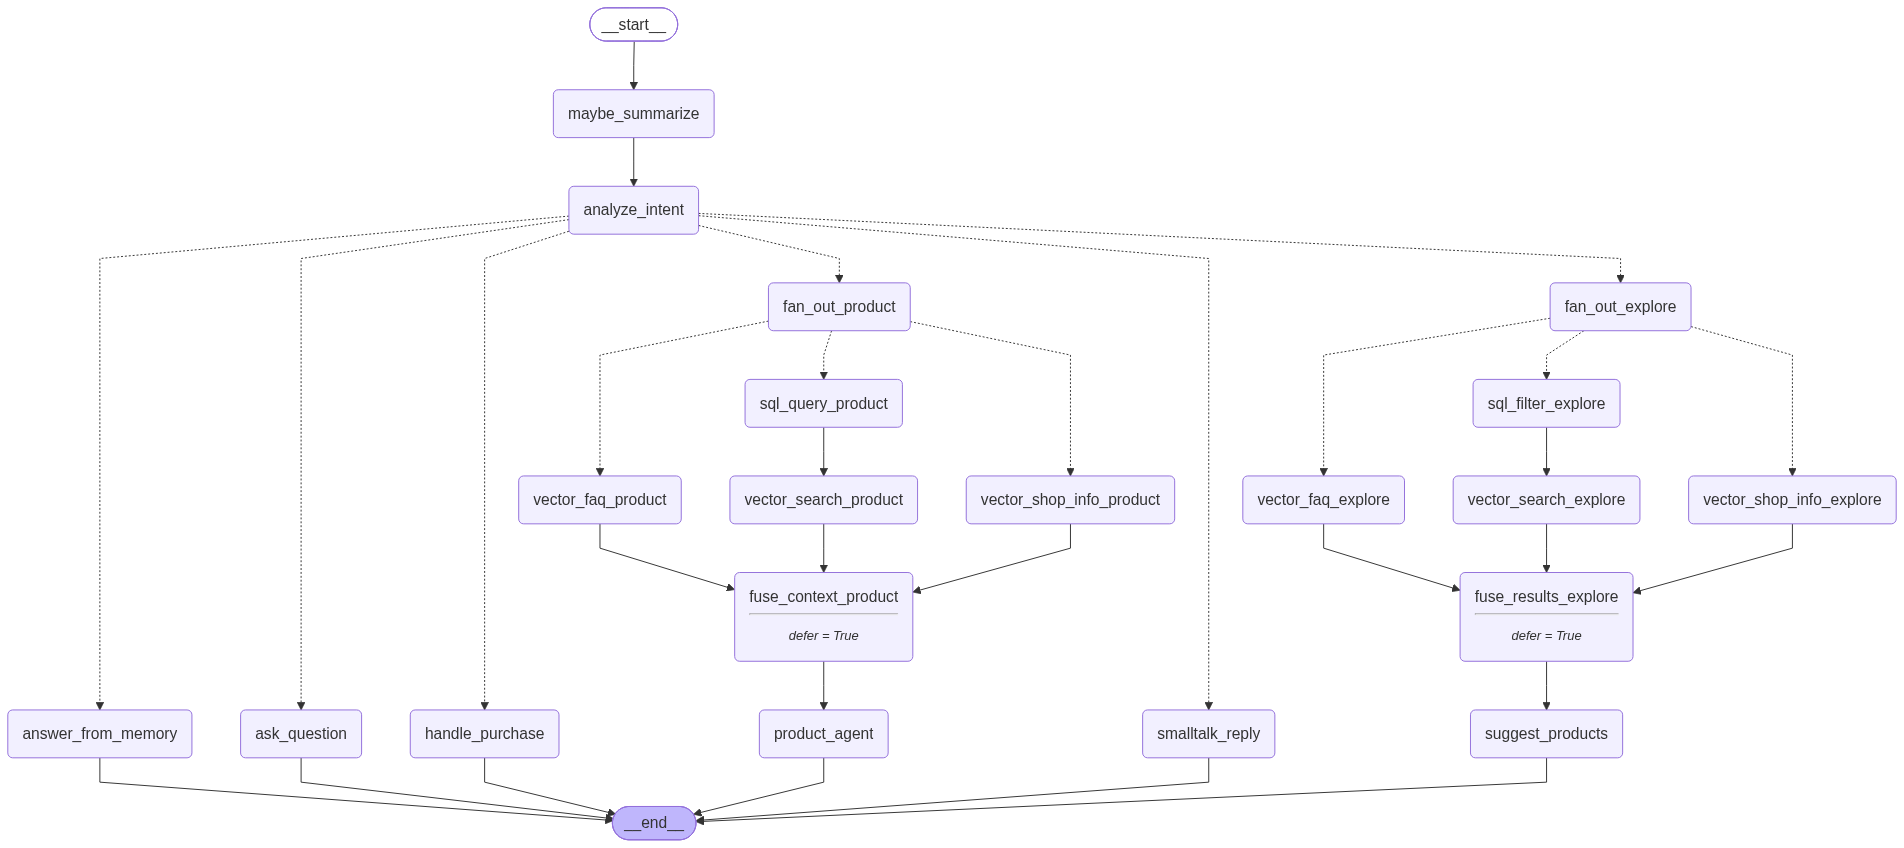
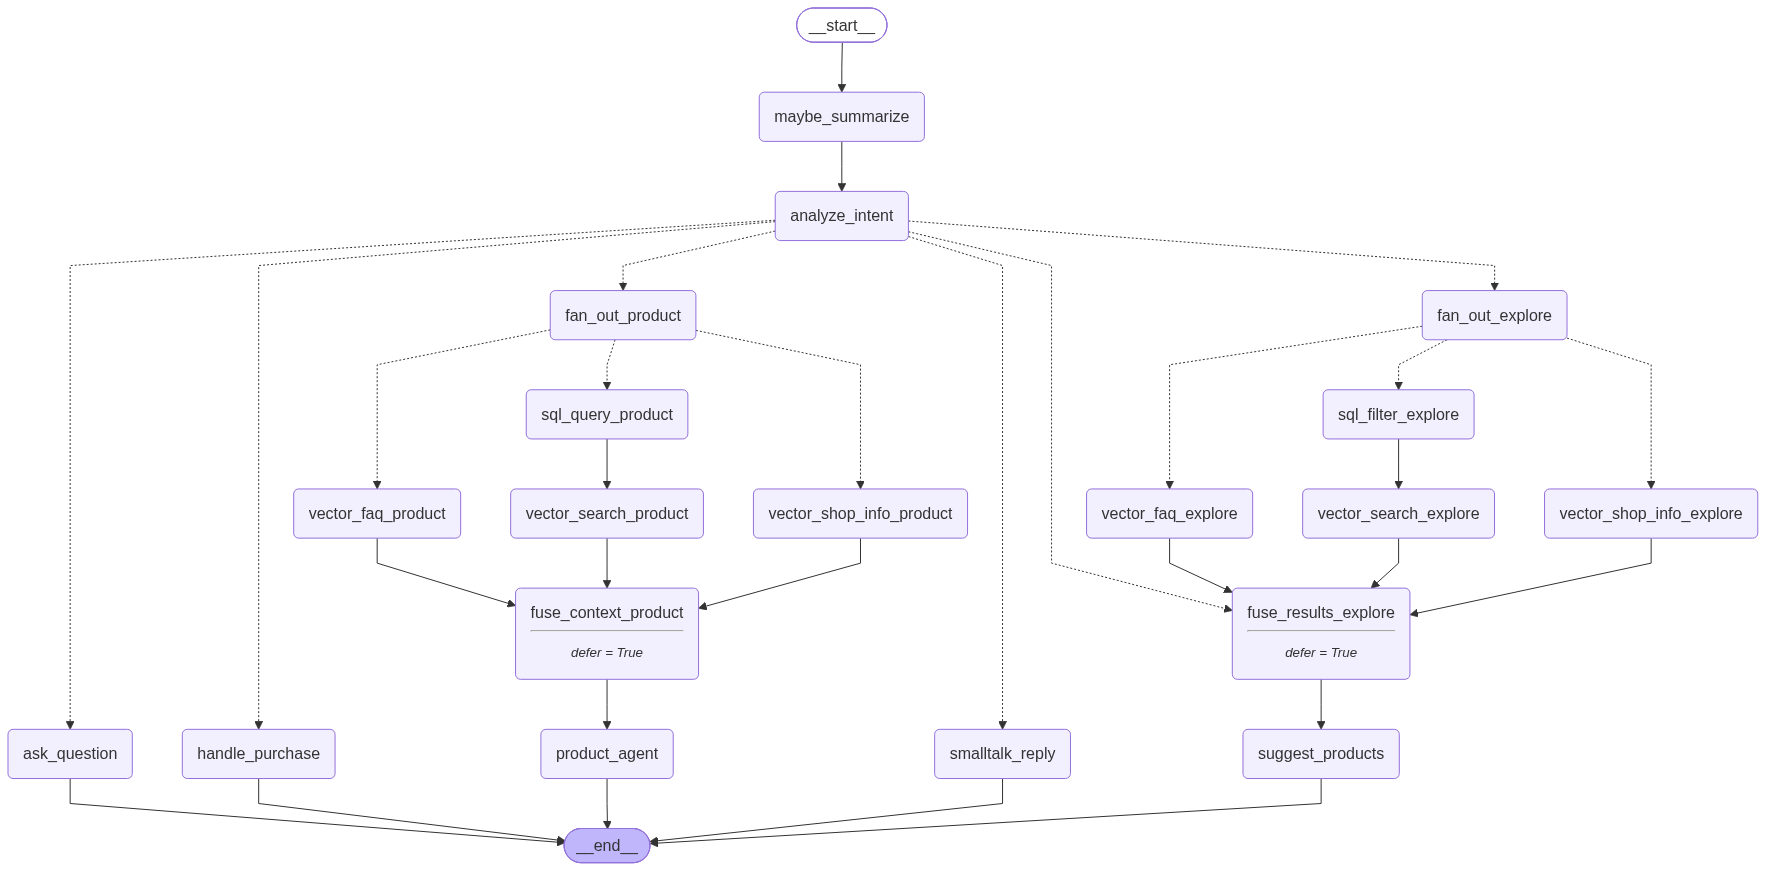
Answer objections from the shown list without a node of its own
answer_from_memory was suggest_products with a different input list: same shop
lookup, same build_system_prompt, same build_explore_prompt, same llm.ainvoke.
The only real difference was a bug — it never passed filters_dropped or
out_of_catalog, so a turn that had relaxed a filter stopped saying so the moment
the customer raised an objection.

Objections and comparisons now route straight to fuse_results_explore, which
re-surfaces shown_products when nothing was retrieved, and suggest_products
answers from it. The routing decision that mattered is unchanged: these turns
still run no retrieval at all, because embedding the objection text
("قیمتش بالاست") returns different products and overwrites the numbered list the
customer is referring to.

Entering a defer=True node with no fan-out behind it needed checking rather than
assuming: verified it runs exactly once, reaches no retrieval node, and produces
one message.

Also makes "cheaper" mean cheaper. The classifier already routes
"ارزونترش رو دارید؟" to search_product, but nothing derived a bound from what was
on screen — rejected_current only excluded those ids, so the next search returned
a *different* product that could easily cost more. relative_price now becomes a
hard maxPrice/minPrice taken from the shown prices, nudged by one step of
numeric(10,2) so the bound is strictly exclusive: landing on it is the same
price as something the customer just turned down.

diff --git a/apps/admin/app/dashboard/playground/labels.ts b/apps/admin/app/dashboard/playground/labels.ts
@@ -67,7 +67,6 @@ export const NODE_LABELS: Record<string, string> = {
   fuse_context_product: "ادغام کانتکست محصول",
   suggest_products: "پیشنهاد محصول",
   product_agent: "پاسخ محصول",
-  answer_from_memory: "پاسخ از حافظه",
   ask_question: "پرسیدن سوال",
   handle_purchase: "هدایت به خرید",
   smalltalk_reply: "پاسخ کوتاه (بدون جستجو)",

diff --git a/apps/agent/app/graph.py b/apps/agent/app/graph.py
@@ -385,6 +385,12 @@ class IntentResult(BaseModel):
     cleared_filters: list[str] = Field(default_factory=list)
     # "price_asc" for cheapest-first, "price_desc" for most-expensive-first.
     sort: Optional[str] = None
+    # A comparative aimed at what was just shown ("ارزونتر", "گرونترش رو
+    # دارید؟"). Unlike `sort`, which only orders whatever the filters allow,
+    # this has to become a hard bound derived from the shown prices — otherwise
+    # "cheaper" returned a *different* product that cost more.
+    # "cheaper" | "pricier".
+    relative_price: Optional[str] = None
 
 
 structured_llm = intent_llm.with_structured_output(IntentResult)
@@ -454,6 +460,46 @@ async def maybe_summarize(state: SalesAgentState) -> dict:
 INTENT_HISTORY_WINDOW = 6
 
 
+# products.price is numeric(10,2), so one step of its scale turns an
+# inclusive bound into a strictly exclusive one.
+PRICE_EPSILON = 0.01
+
+
+def _relative_price_bound(
+    relative: Optional[str], shown: Optional[list[RetrievedItem]]
+) -> Optional[tuple[str, float]]:
+    """Turn "cheaper"/"pricier" into a price bound taken from the shown list.
+
+    Cheaper is measured against the *lowest* price on the table (and pricier
+    against the highest): anything else would return a product the customer can
+    already see and has implicitly passed over.
+    """
+    if relative not in ("cheaper", "pricier"):
+        return None
+
+    prices = []
+    for item in shown or []:
+        if item.get("type") != "product":
+            continue
+        price = (item.get("metadata") or {}).get("price")
+        if price is None:
+            continue
+        try:
+            prices.append(float(price))
+        except (TypeError, ValueError):
+            continue
+    if not prices:
+        return None
+
+    # _product_where compares with <= / >=, so the bound is nudged by one step
+    # of the column's own scale (numeric(10,2)) to make it strictly exclusive.
+    # Landing *on* the boundary is not "cheaper" — it is the same price as
+    # something the customer just turned down.
+    if relative == "cheaper":
+        return "maxPrice", min(prices) - PRICE_EPSILON
+    return "minPrice", max(prices) + PRICE_EPSILON
+
+
 def derive_mode(intent: Optional[str], prev_mode: str) -> str:
     """Derive the graph mode from the intent so the two can't contradict.
 
@@ -520,6 +566,19 @@ async def analyze_intent(state: SalesAgentState) -> dict:
             for c in categories
         ):
             merged_filters.pop("category", None)
+
+    # "cheaper" / "pricier" is only meaningful against what the customer is
+    # looking at, so turn it into a hard bound taken from those prices. Without
+    # this the request was honoured only by luck: `rejected_current` excluded the
+    # shown ids, so the next search returned *different* products — which could
+    # perfectly well cost more than the ones the customer just called expensive.
+    bound = _relative_price_bound(result.relative_price, state.get("shown_products"))
+    if bound:
+        key, value = bound
+        merged_filters[key] = value
+        # A cheaper-than bound replaces any floor left over from earlier turns
+        # (and vice versa), or the two can cross and match nothing.
+        merged_filters.pop("minPrice" if key == "maxPrice" else "maxPrice", None)
 
     # objection is sticky across turns, but must clear once the customer drops it.
     if result.objection_resolved:
@@ -593,11 +652,13 @@ def router_after_intent(state: SalesAgentState) -> str:
         return "handle_purchase"
     if intent in ("ask_question", "needs_clarification"):
         return "ask_question"
-    # Objections and comparisons are about products already on the table — answer
-    # from what we've shown instead of running a fresh (and misleading) search
-    # whose query would be the objection/comparison text itself.
+    # Objections and comparisons are about products already on the table, so
+    # there is nothing to retrieve: a fresh search would embed the objection
+    # text itself ("قیمتش بالاست"), return different products, and overwrite the
+    # numbered list the customer is referring to. Skip straight to the join,
+    # which re-surfaces what was shown; suggest_products then answers from it.
     if intent in ("objection", "compare") and state.get("shown_products"):
-        return "answer_from_memory"
+        return "fuse_results_explore"
     if state.get("mode") == "product":
         return "fan_out_product"
     return "fan_out_explore"
@@ -1006,8 +1067,16 @@ def _rank_and_trim(state: SalesAgentState, limit: int) -> list[RetrievedItem]:
 
 async def fuse_results_explore(state: SalesAgentState) -> dict:
     """Barrier for the explore fan-out: the SQL→vector chain plus the FAQ and
-    shop-info branches. Runs only once all of them have finished."""
+    shop-info branches. Runs only once all of them have finished.
+
+    Objections and comparisons reach this node directly, with no fan-out behind
+    them (see router_after_intent), so nothing is staged and the products the
+    customer is talking about have to be put back on the table here.
+    """
     top = _rank_and_trim(state, EXPLORE_CONTEXT_LIMIT)
+
+    if not state.get("retrieved_raw") and state.get("intent") in ("objection", "compare"):
+        top = list(state.get("shown_products") or [])
 
     # The customer asked for products and nothing we hold is close enough. Say
     # so rather than presenting the nearest rows as if they were the answer.
@@ -1103,25 +1172,6 @@ async def product_agent(state: SalesAgentState) -> dict:
     )
 
     return {"messages": [reply]}
-
-
-async def answer_from_memory(state: SalesAgentState) -> dict:
-    """Handle objections / comparisons using already-shown products, no search."""
-    shop = await db.shop.find_unique(where={"id": state["shop_id"]})
-    system_prompt = build_system_prompt(shop) if shop else ""
-
-    shown = state.get("shown_products", [])
-    context_prompt = build_explore_prompt(
-        shown, state.get("stage"), state.get("value_driver"), state.get("objection")
-    )
-
-    reply = await llm.ainvoke(
-        build_llm_messages(system_prompt, state["messages"], context_prompt, state.get("summary"))
-    )
-
-    # Re-surface the same products in the response (images / buy buttons) since
-    # analyze_intent cleared retrieved_context at the start of the turn.
-    return {"messages": [reply], "retrieved_context": list(shown)}
 
 
 async def ask_question(state: SalesAgentState) -> dict:
@@ -1270,7 +1320,6 @@ def build_graph(checkpointer: Optional[AsyncPostgresSaver] = None):
         .add_node("fuse_context_product", fuse_context_product, defer=True)
         .add_node("suggest_products", suggest_products)
         .add_node("product_agent", product_agent)
-        .add_node("answer_from_memory", answer_from_memory)
         .add_node("ask_question", ask_question)
         .add_node("handle_purchase", handle_purchase)
         .add_node("smalltalk_reply", smalltalk_reply)
@@ -1285,7 +1334,7 @@ def build_graph(checkpointer: Optional[AsyncPostgresSaver] = None):
                 "fan_out_product",
                 "ask_question",
                 "handle_purchase",
-                "answer_from_memory",
+                "fuse_results_explore",
                 "smalltalk_reply",
             ],
         )
@@ -1319,7 +1368,6 @@ def build_graph(checkpointer: Optional[AsyncPostgresSaver] = None):
         .add_edge("fuse_context_product", "product_agent")
         .add_edge("product_agent", END)
         # terminal nodes
-        .add_edge("answer_from_memory", END)
         .add_edge("ask_question", END)
         .add_edge("handle_purchase", END)
         .add_edge("smalltalk_reply", END)

diff --git a/apps/agent/app/prompts.py b/apps/agent/app/prompts.py
@@ -253,6 +253,10 @@ def build_intent_analysis_prompt(categories: Optional[list[str]] = None) -> str:
 - sort: **فقط** وقتی مشتری صفت عالی («ـترین») یا معادلش را به کار برده باشد، price_asc یا price_desc؛ در غیر این صورت null.
   مثال: «ارزانترین گوشیتون چیه؟» → price_asc. «کمترین قیمت» → price_asc. «گرانترین مدل» → price_desc.
   ⚠ صفت ساده «ارزان»/«ارزون»/«اقتصادی» صفت عالی نیست → sort را null بگذار و فقط value_driver را مقدار بده.
+- relative_price: وقتی مشتری صفت **تفضیلی** («ـتر») نسبت به همان محصولاتی که همین حالا نشانش دادهای به کار برده، cheaper یا pricier؛ در غیر این صورت null.
+  مثال: «ارزونترش رو دارید؟» → cheaper. «یه چیز گرونتر نشون بده» → pricier. «از اینها ارزونتر میخوام» → cheaper.
+  ⚠ اگر مشتری عدد مشخصی گفته («زیر ۲ میلیون») این را null بگذار و بهجایش maxPrice بده.
+  ⚠ اگر هنوز محصولی نشان داده نشده، این را null بگذار.
 
 ⚠ **قانون قیمت**: `maxPrice`/`minPrice` را **فقط** وقتی بده که مشتری یک **عدد مشخص** گفته باشد.
 کلماتی مثل «ارزان»، «ارزون»، «اقتصادی»، «مقرونبهصرفه»، «گران» هیچ عددی ندارند — برای آنها
